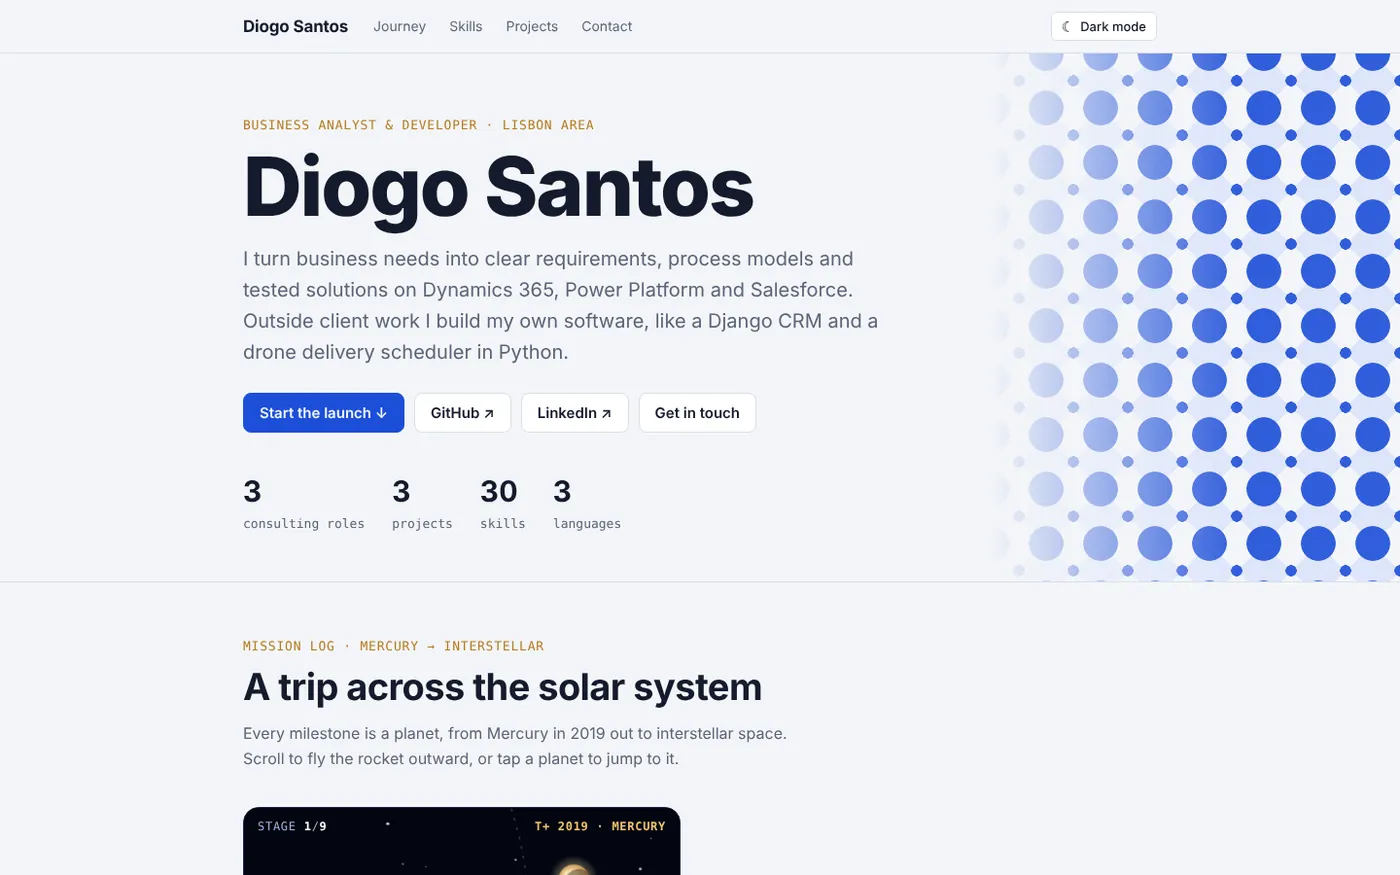
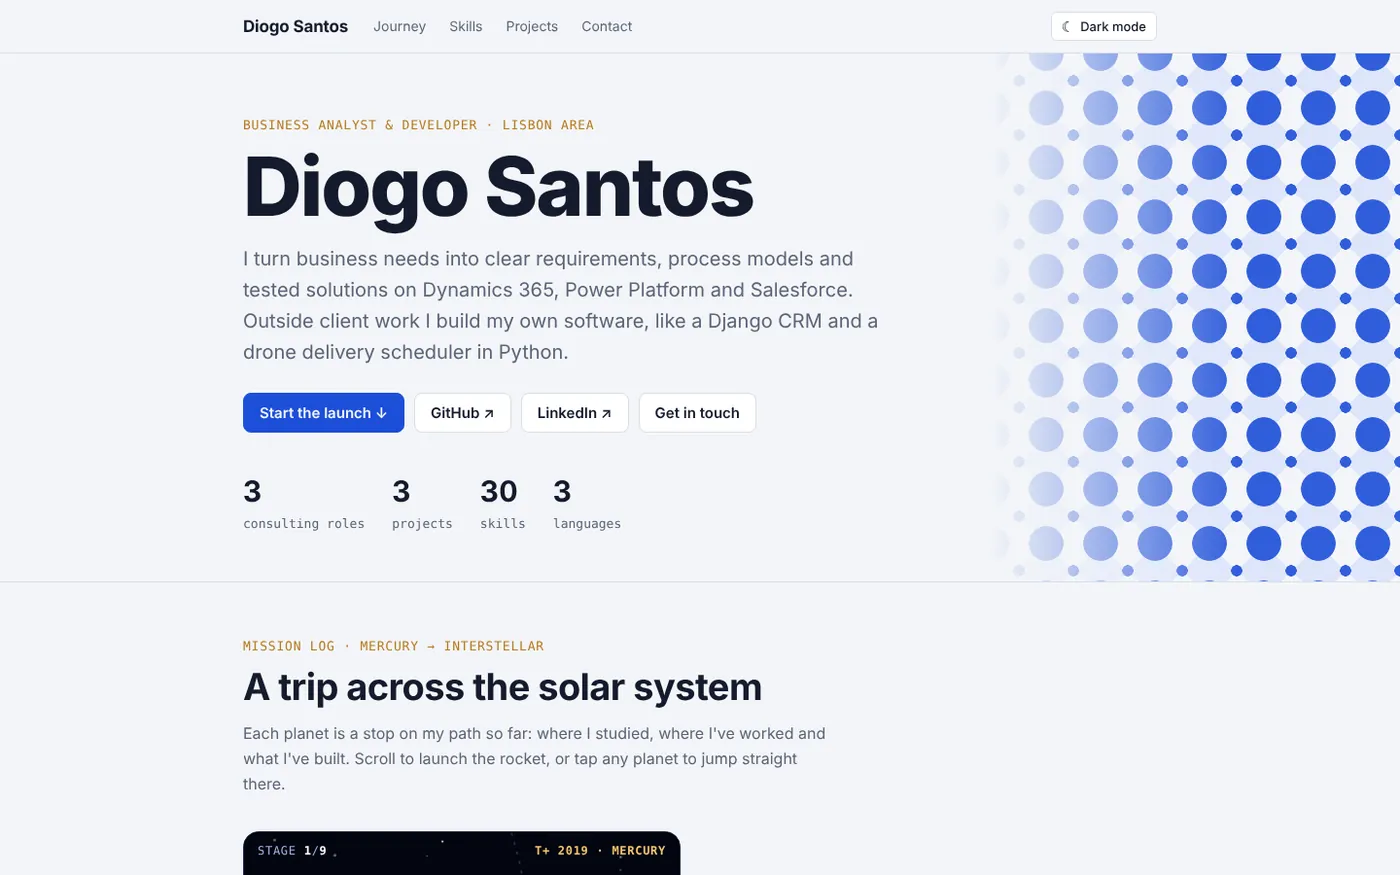
Rewrite the journey intro; add my Trailhead profile to Contact

Changed region(s): [[0.1536, 0.8331, 0.5836, 1.0]]

diff --git a/assets/css/styles.css b/assets/css/styles.css
@@ -178,6 +178,7 @@ details ul{margin:8px 0 0;padding-left:18px;color:var(--muted);font-size:14px}
 .cline{display:flex;align-items:center;justify-content:space-between;gap:10px;background:var(--surface);border:1px solid var(--line);border-radius:var(--radius);padding:14px 16px;min-width:0}
 .cline span{font:14px var(--mono);overflow-wrap:anywhere;min-width:0}
 .cline small{display:block;font:600 11px var(--body);text-transform:uppercase;letter-spacing:.06em;color:var(--muted)}
+.cline span.pending{color:var(--muted);font-style:italic}
 .copy{border:1px solid var(--line);background:transparent;color:var(--ink);border-radius:6px;padding:5px 10px;font:500 13px var(--body);cursor:pointer;flex-shrink:0}
 .now{display:inline-block;margin-left:6px;font:600 11px var(--mono);text-transform:uppercase;letter-spacing:.05em;color:var(--cobalt);background:var(--cobalt-soft);border-radius:4px;padding:1px 6px}
 .langh{font:600 13px var(--mono);text-transform:uppercase;letter-spacing:.06em;color:var(--muted);margin:8px 0 12px}

diff --git a/assets/js/app.js b/assets/js/app.js
@@ -80,8 +80,8 @@ function renderJourney(){
 function renderContact(){
   $("#contactlist").innerHTML = CV.contact.map((c,i) => `
     <div class="cline"><div style="min-width:0"><small>${esc(c.label)} ${c.placeholder?PH:''}</small>
-      <span>${c.href?`<a href="${esc(c.href)}" target="_blank" rel="noopener">${esc(c.value)}</a>`:esc(c.value)}</span></div>
-      <button class="copy" type="button" data-copy="${i}">Copy</button></div>`).join("");
+      <span class="${c.pending?'pending':''}">${c.href?`<a href="${esc(c.href)}" target="_blank" rel="noopener">${esc(c.value)}</a>`:esc(c.value)}</span></div>
+      ${c.pending?'':`<button class="copy" type="button" data-copy="${i}">Copy</button>`}</div>`).join("");
 }
 
 function renderAll(){ renderSkills(); renderProjects(); renderJourney(); }

diff --git a/index.html b/index.html
@@ -54,7 +54,7 @@
     <div class="wrap jhead">
       <div class="eyebrow">Mission log · Mercury → interstellar</div>
       <h2>A trip across the solar system</h2>
-      <p class="sub">Every milestone is a planet, from Mercury in 2019 out to interstellar space. Scroll to fly the rocket outward, or tap a planet to jump to it.</p>
+      <p class="sub">Each planet is a stop on my path so far: where I studied, where I've worked and what I've built. Scroll to launch the rocket, or tap any planet to jump straight there.</p>
     </div>
     <div class="wrap jgrid">
       <div class="scene" id="scene">

diff --git a/assets/js/data.js b/assets/js/data.js
@@ -119,6 +119,7 @@ const CV = {
     { label:"Email", value:"diogofasantos7@gmail.com" },
     { label:"LinkedIn", value:"linkedin.com/in/diogo-santos-b22801243", href:"https://www.linkedin.com/in/diogo-santos-b22801243/" },
     { label:"GitHub", value:"github.com/DiogoS7", href:"https://github.com/DiogoS7" },
+    { label:"Trailhead", value:"salesforce.com/trailblazer/diogosantos00", href:"https://www.salesforce.com/trailblazer/diogosantos00" },
   ],
 };
 /* =================================== */
